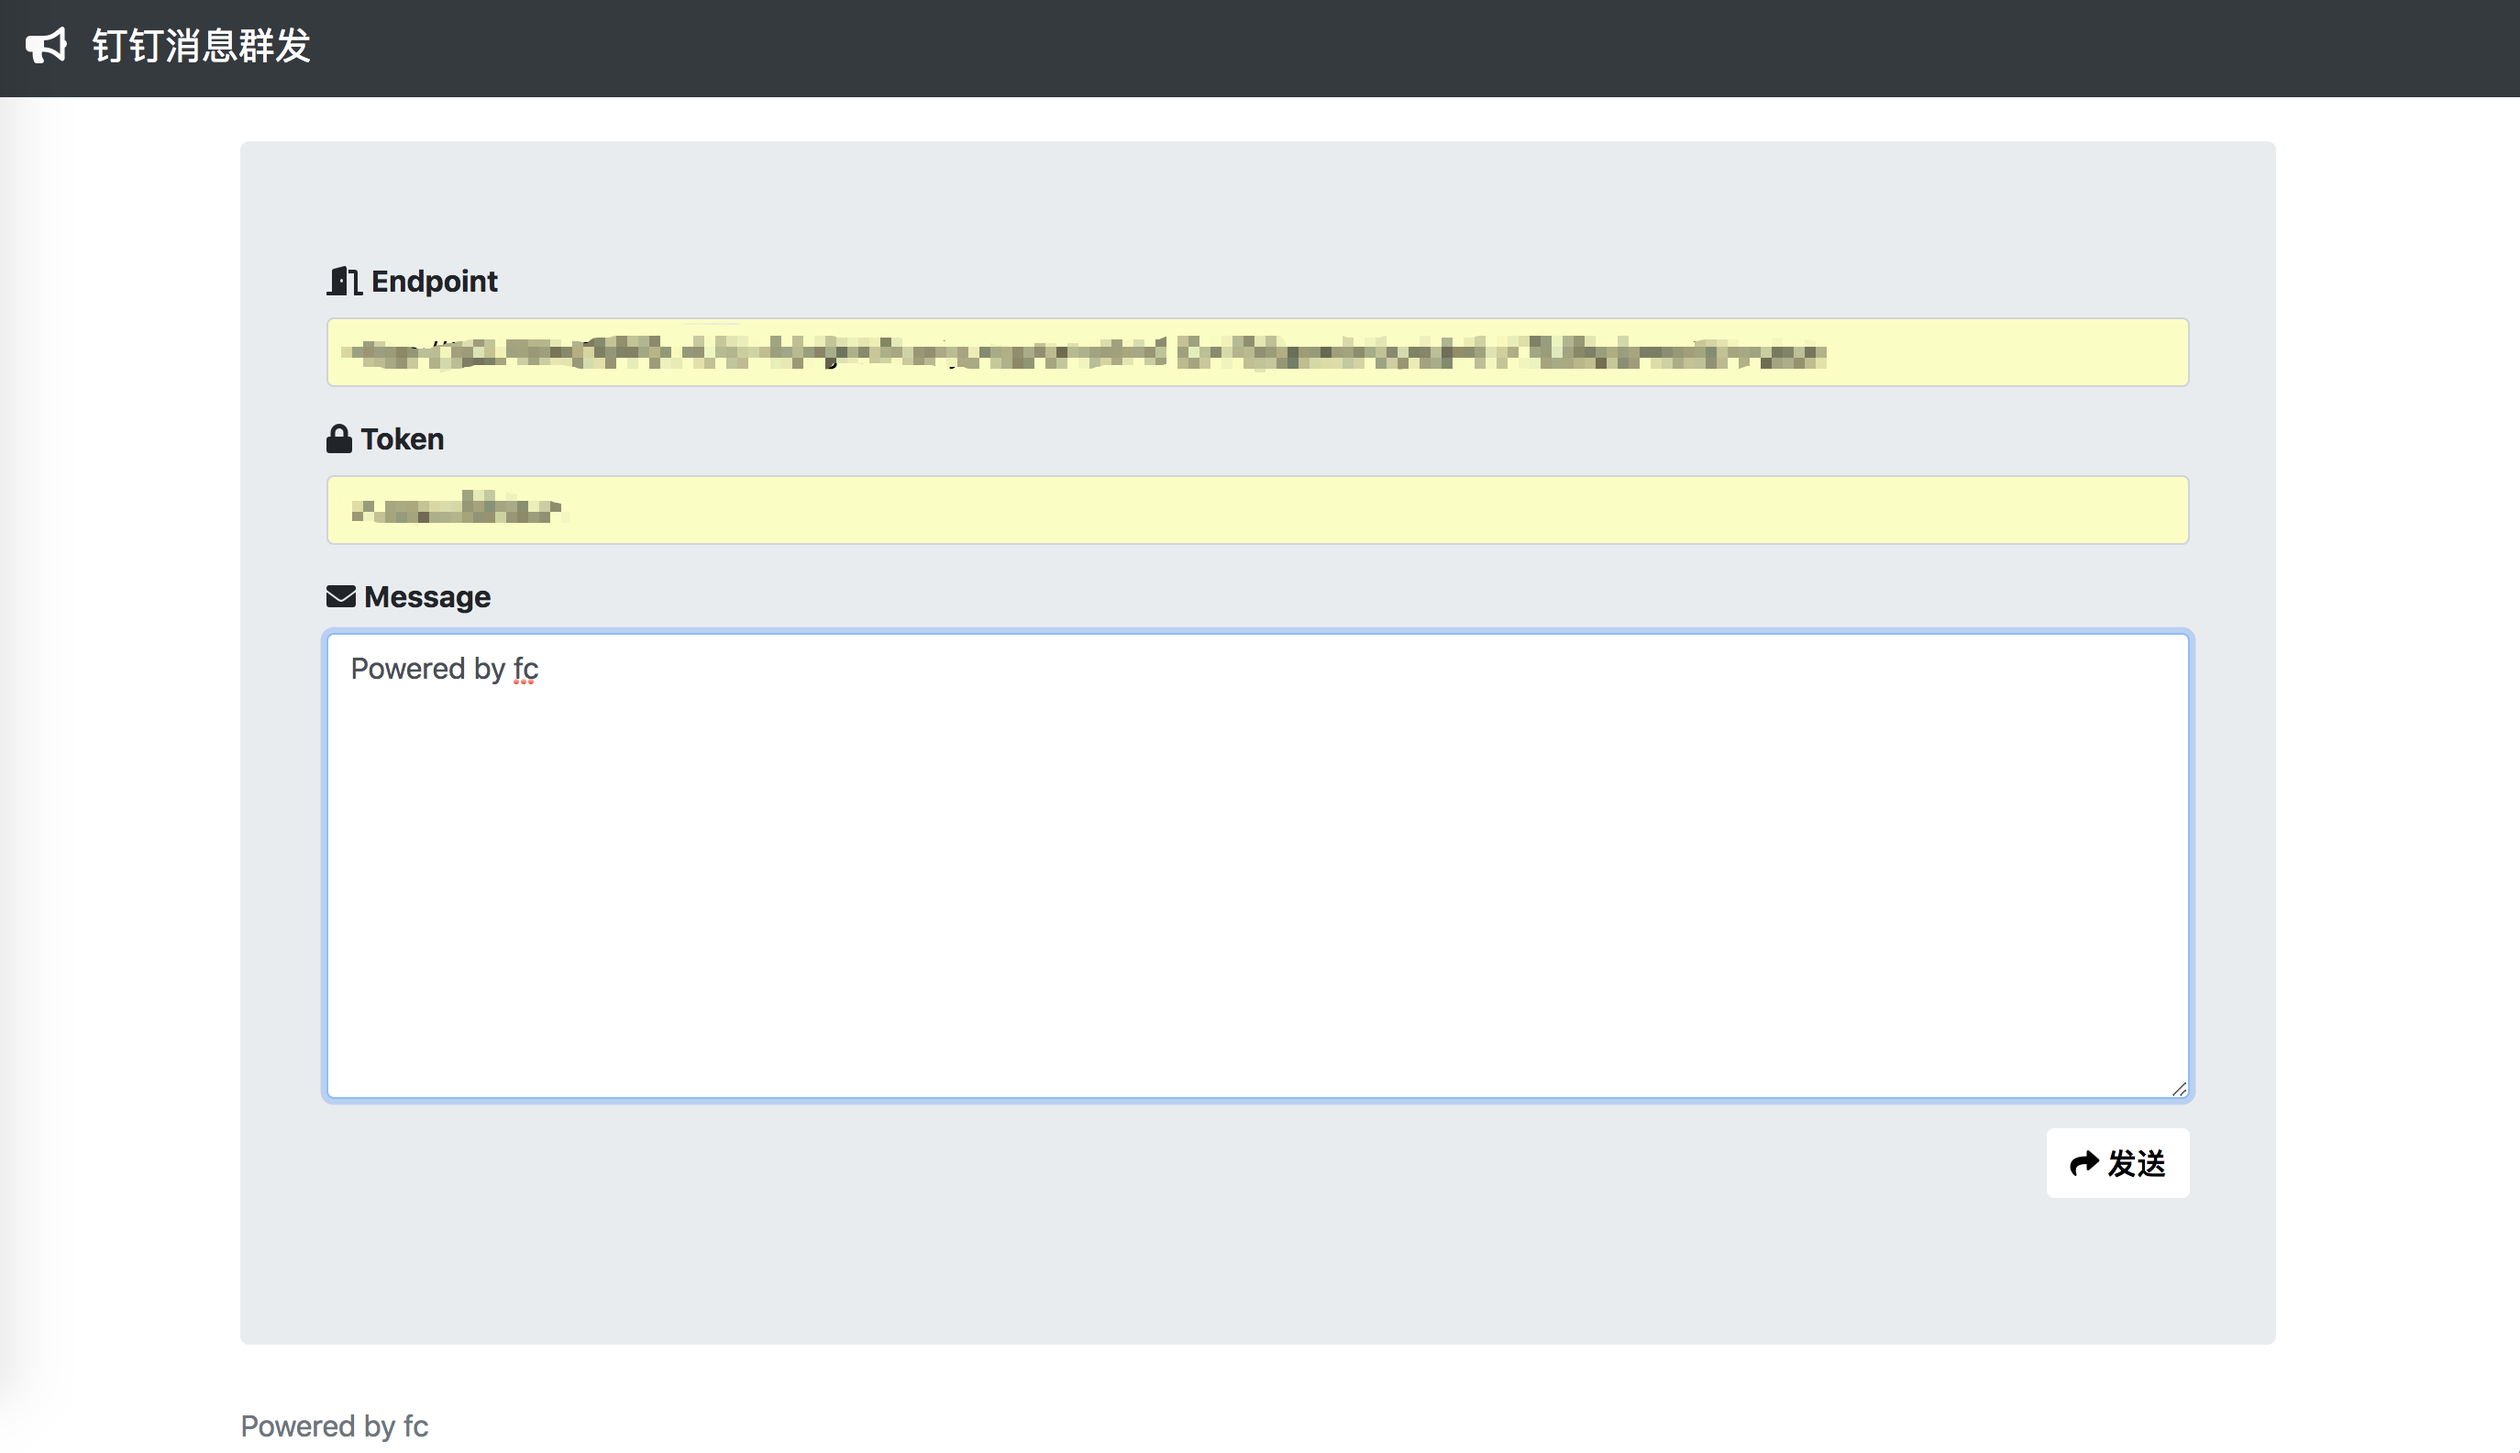
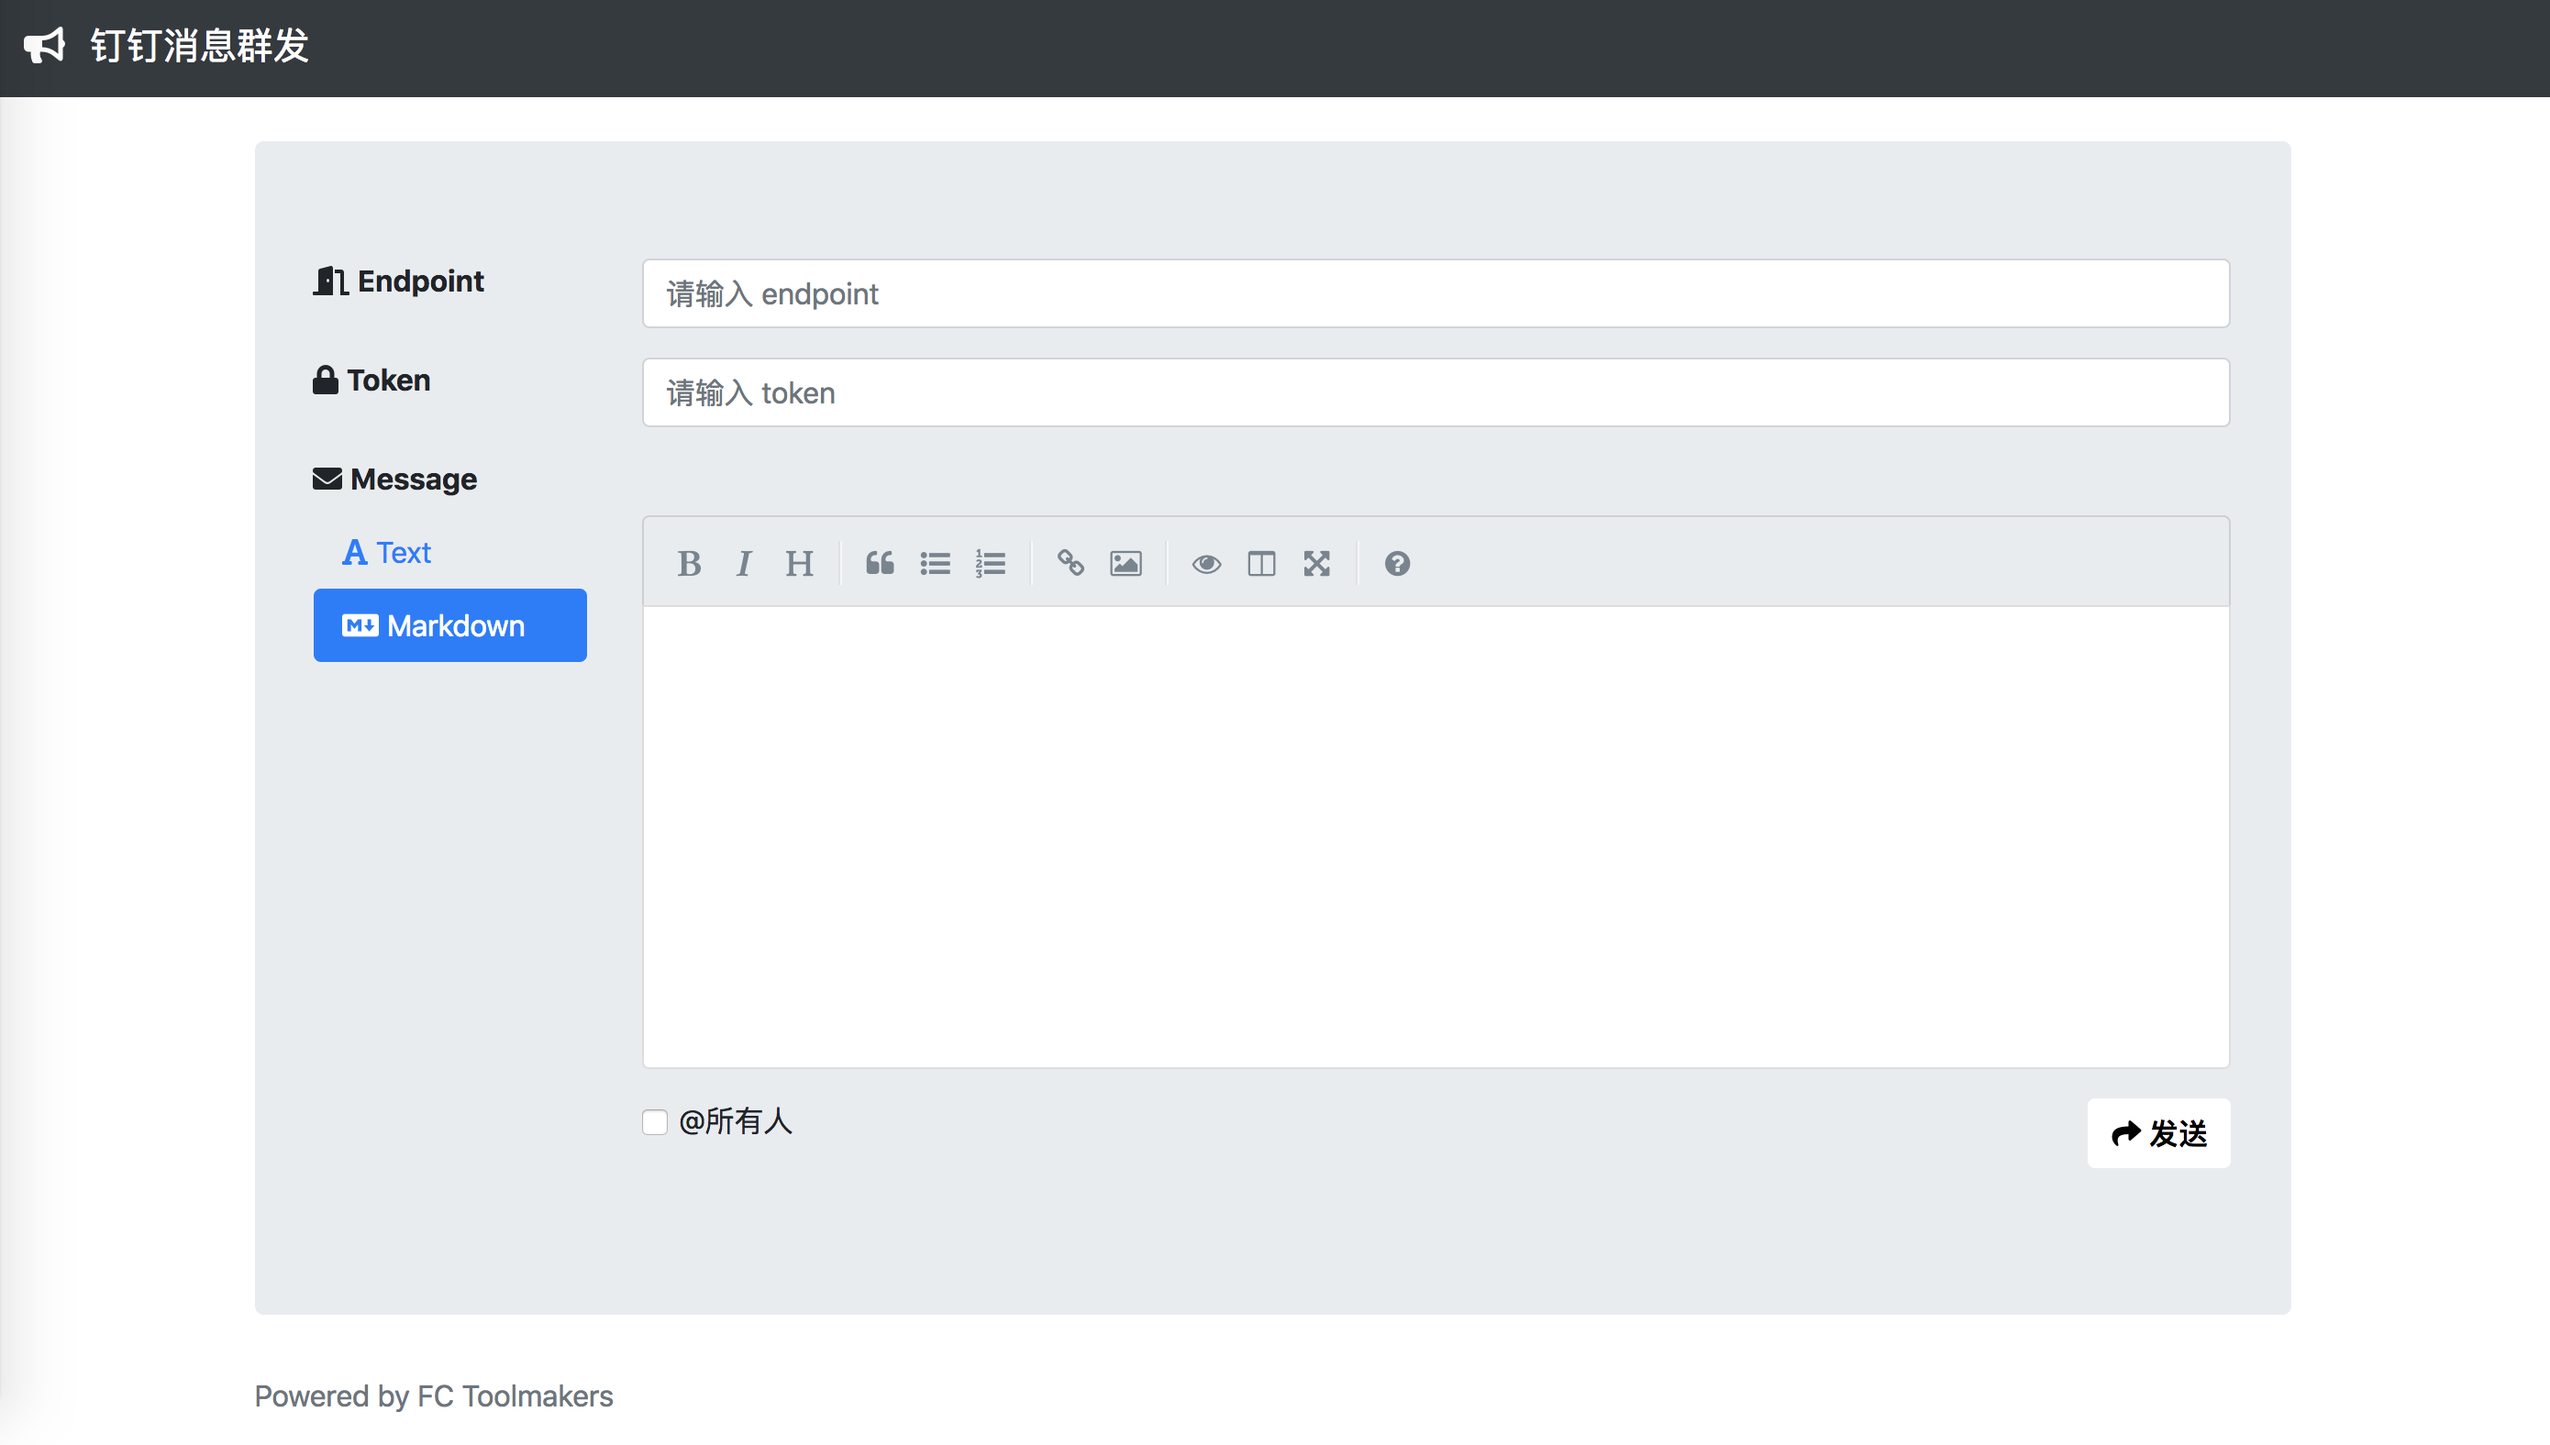
update readme

diff --git a/README.md b/README.md
@@ -5,7 +5,7 @@
 - 通过鉴权认证，避免私服泄漏
 
 ## 使用方法
-1. 开通 [阿里云函数计算服务](https://cn.aliyun.com/product/fc?spm=5176.10695662.1112509.1.572e4357qoGwrS)
+1. 开通 [阿里云函数计算服务](https://cn.aliyun.com/product/fc?spm=5176.10695662.1112509.1.572e4357qoGwrS) 并安装配置 [函数计算工具 fcli](https://help.aliyun.com/document_detail/52995.html?spm=5176.10695662.1996646101.searchclickresult.308f1710MBehQD)
 
 2. git clone https://github.com/awesome-fc/dingtalk-broadcast.git
 
@@ -37,6 +37,8 @@
    ![](./picture/deploy.png)
 
    ![](./picture/dingtalkbroadcast.png)
+
+   可以选择自己要发送的格式，选择 @所有人 即可 @所有人
 
 5. 此后要发送消息，只需要执行项目目录下的 __start.sh__ 文件，或直接浏览 [钉钉消息群发](https://awesome-fc.github.io/dingtalk-broadcast/) 并填写 `endpoint` 、 `token` 与要发送的消息即可
 
